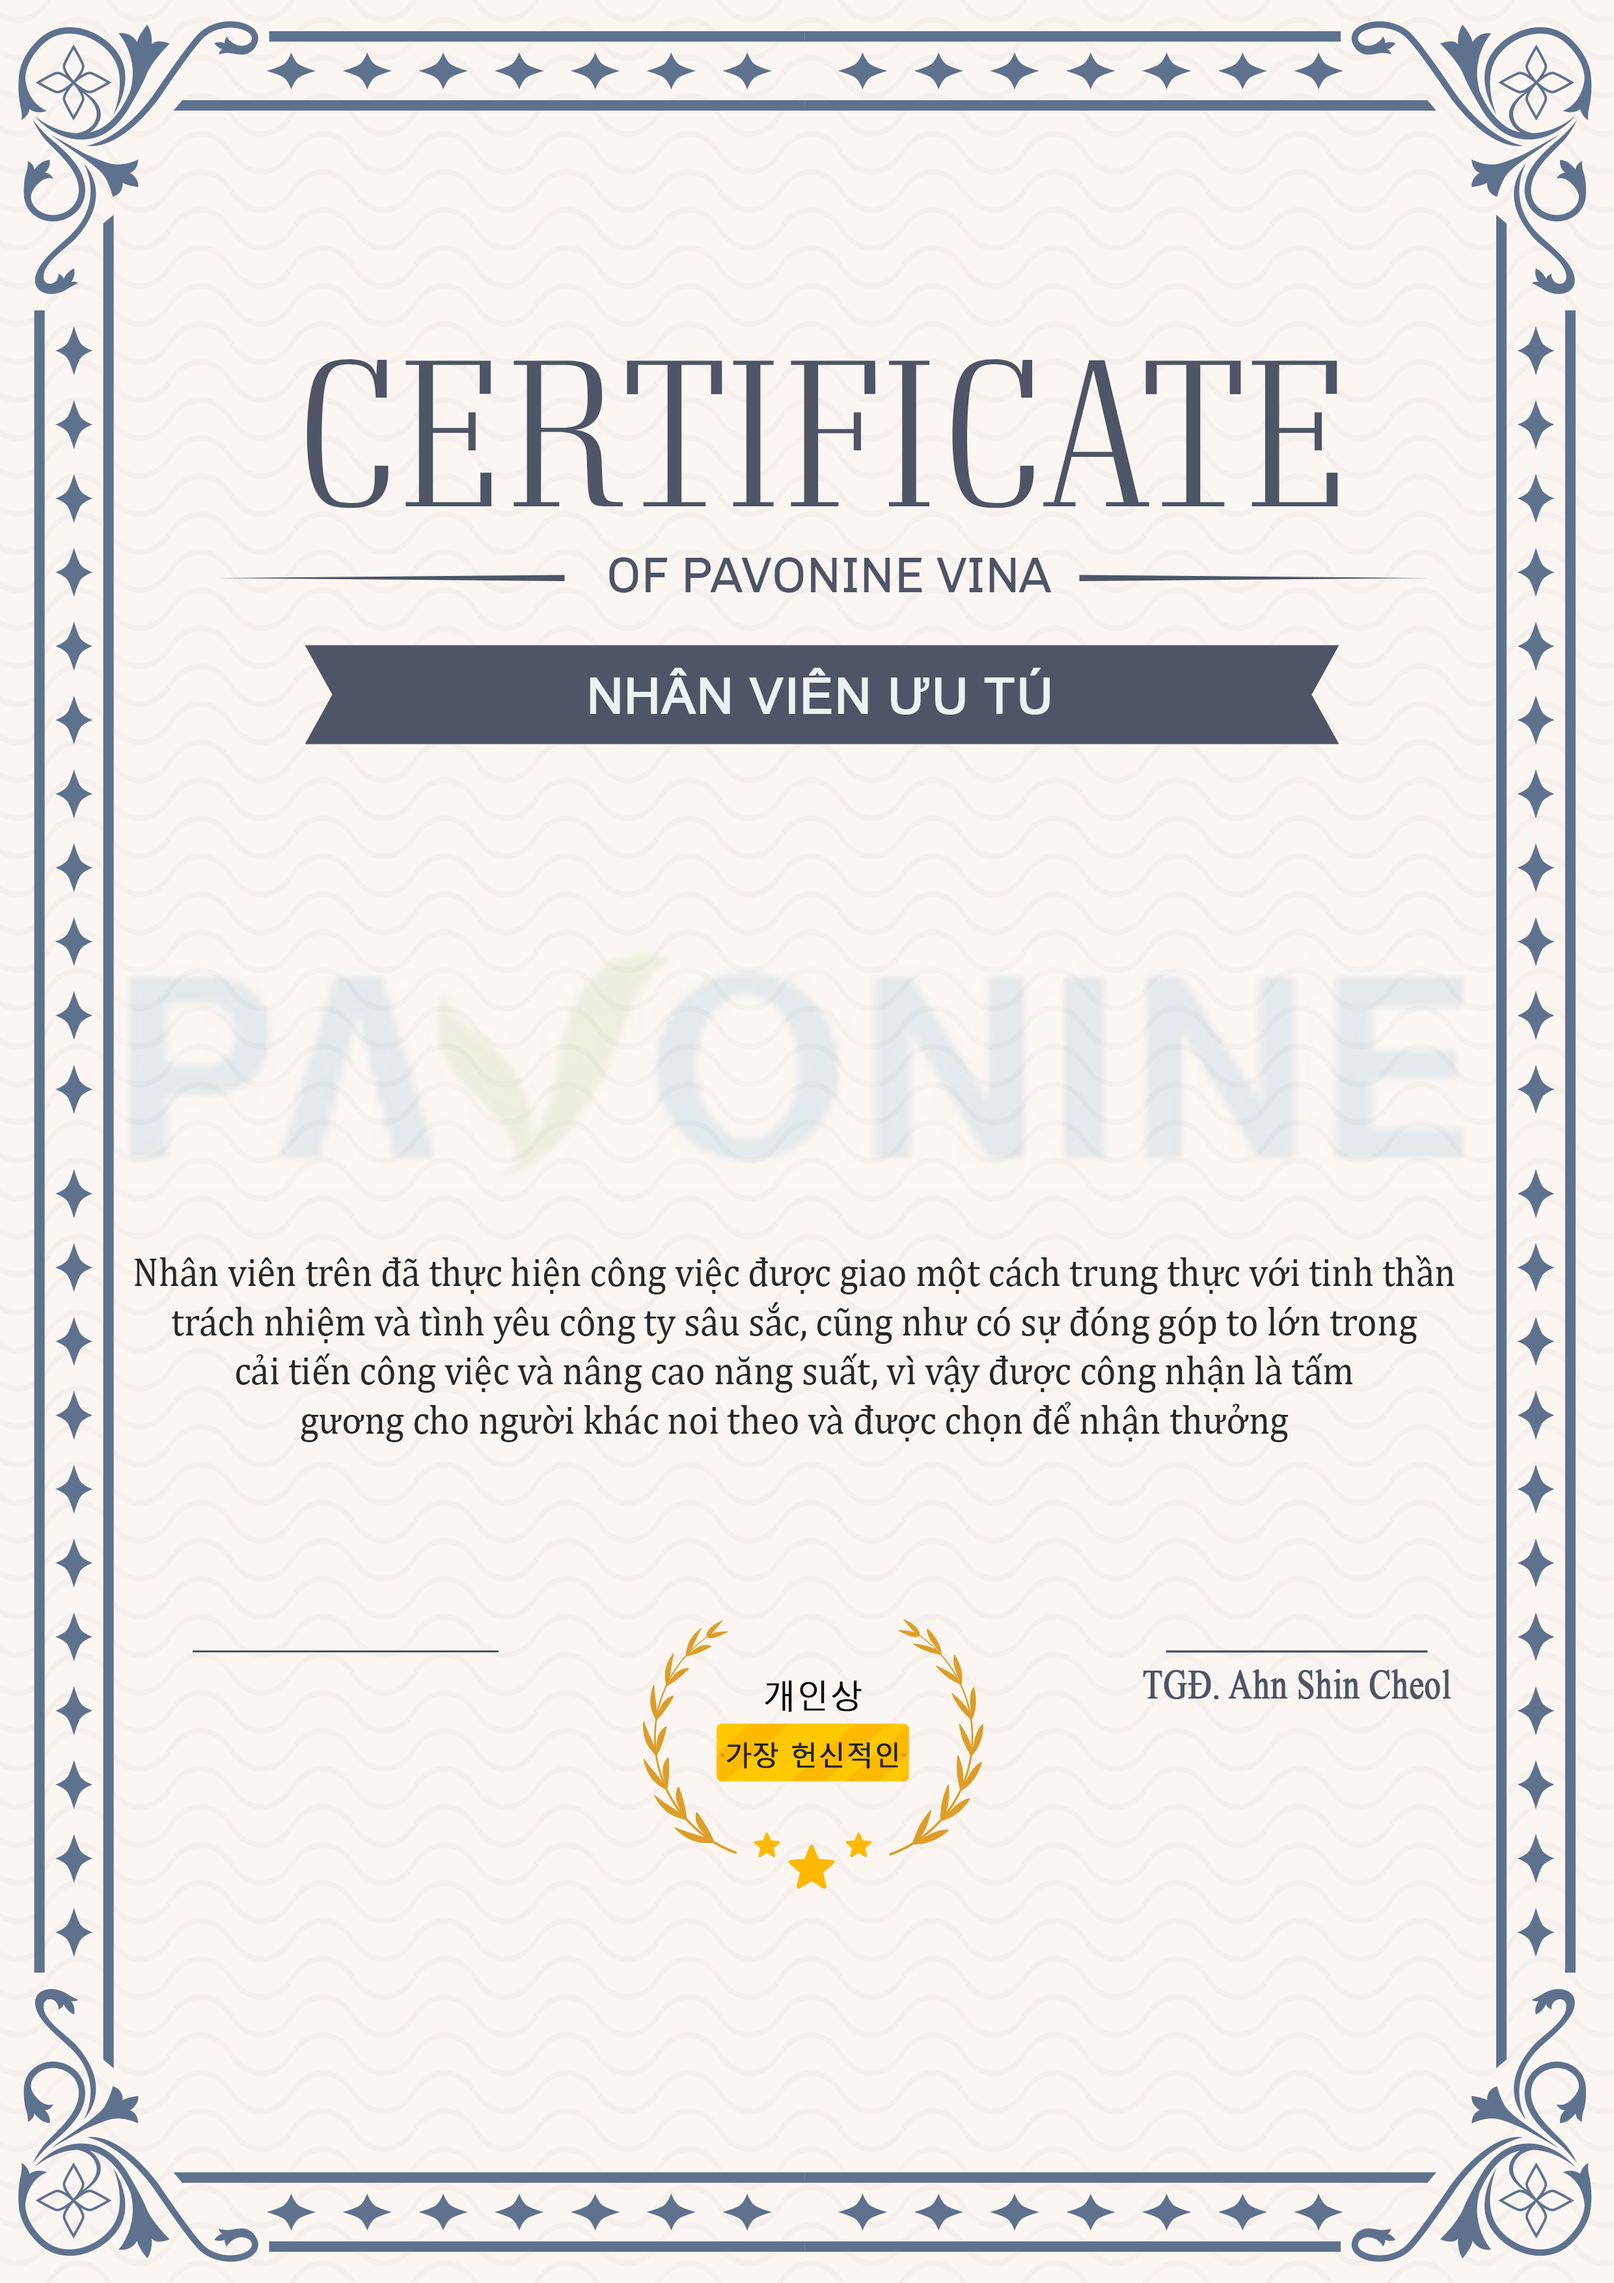
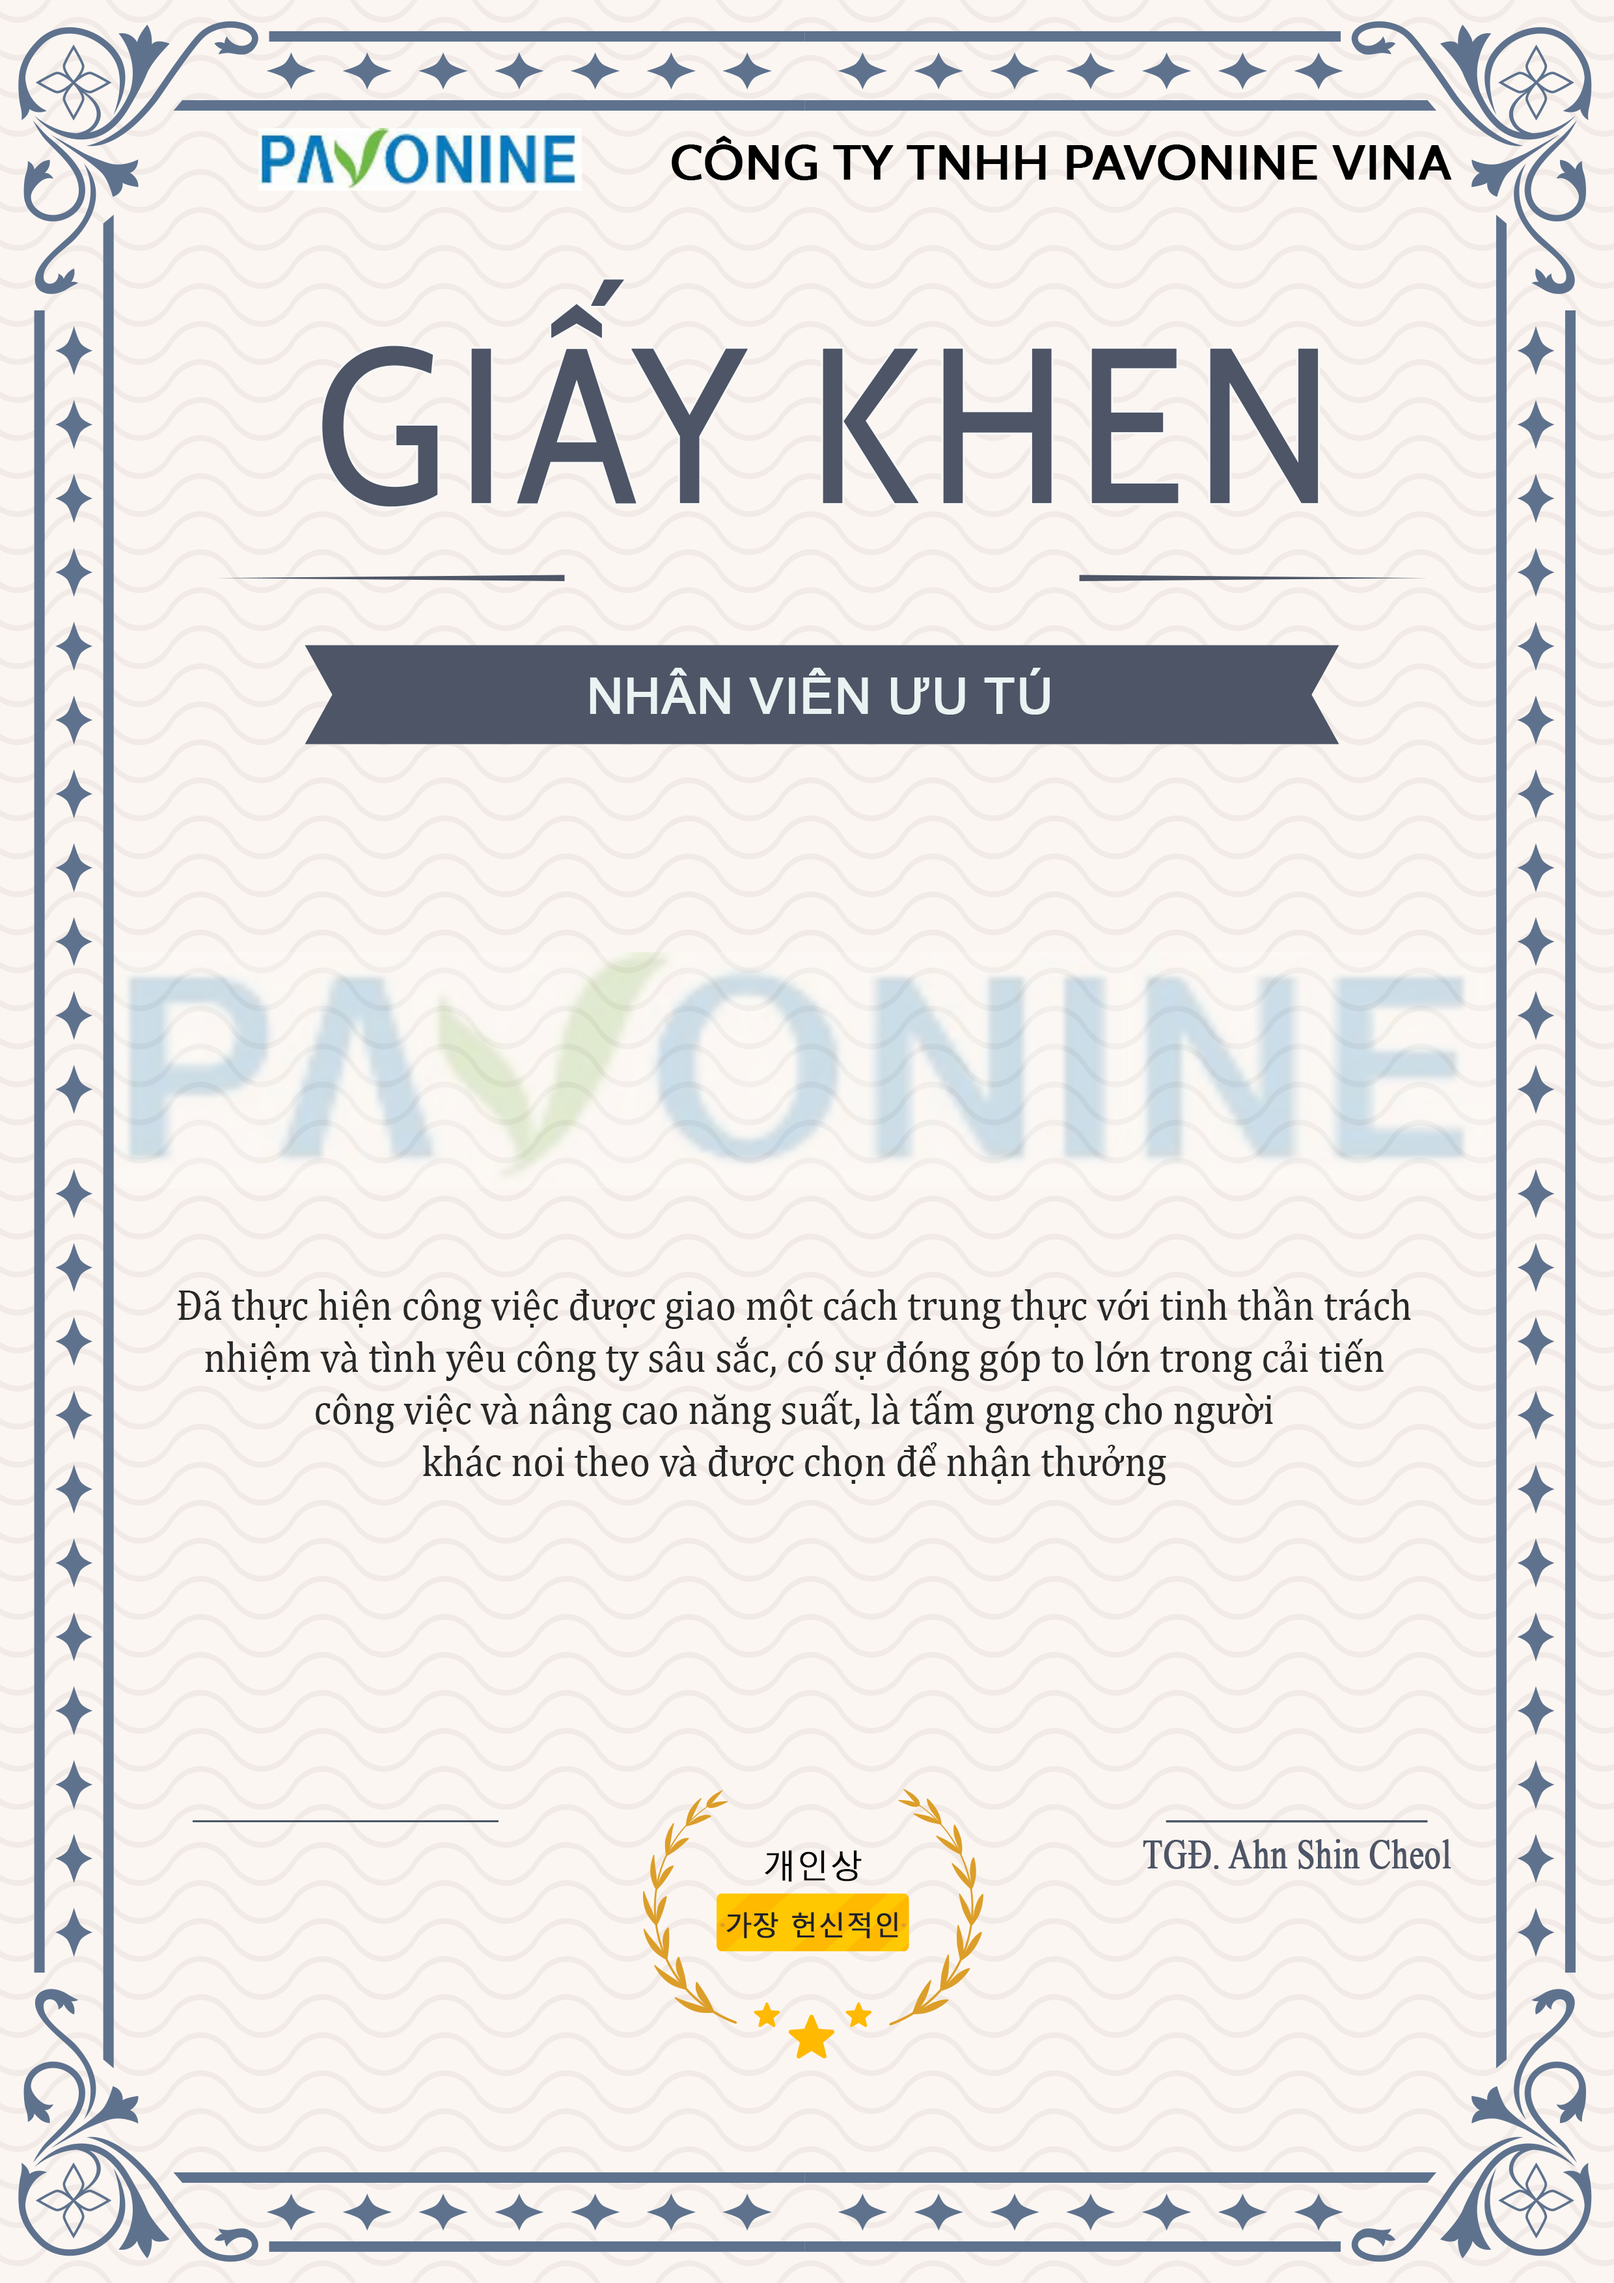
update

diff --git a/src/CertificateGenerator1.jsx b/src/CertificateGenerator1.jsx
@@ -1,6 +1,6 @@
 import { useRef, useState, useEffect } from "react";
 
-export default function CertificateGenerator1() {
+export default function CertificateGenerator2() {
   const canvasRef = useRef(null);
   const [name, setName] = useState("");
   const [department, setDepartment] = useState("");
@@ -32,7 +32,7 @@ export default function CertificateGenerator1() {
     ctx.setTransform(dpr, 0, 0, dpr, 0, 0);
 
     const img = new Image();
-    img.src = "/certificate.png";
+    img.src = "/certificate2.png";
     img.onload = () => {
       backgroundRef.current = img;
       drawCertificate(name, dpr);
@@ -47,6 +47,17 @@ export default function CertificateGenerator1() {
     ctx.clearRect(0, 0, canvas.width, canvas.height);
     ctx.setTransform(dpr, 0, 0, dpr, 0, 0);
     ctx.drawImage(backgroundRef.current, 0, 0, baseWidth, baseHeight);
+
+    // Dòng tháng và năm nằm trên tên người khen thưởng
+    const topNow = new Date();
+    const topMonth = (topNow.getMonth() + 1).toString().padStart(2, '0');
+    const topYear = topNow.getFullYear();
+    const topText = `THÁNG ${topMonth} - ${topYear}`;
+    ctx.font = `bold ${70 * dpr}px 'Arial', 'Cambria', 'serif'`;
+    ctx.fillStyle = "#1e293b";
+    ctx.textAlign = "center";
+    ctx.textBaseline = "middle";
+    ctx.fillText(topText, baseWidth / 2, 890);
 
     // Tên người được khen (dòng chính) - tự động giảm font nếu quá dài, viết hoa chữ cái đầu mỗi từ
     function toTitleCase(str) {
@@ -72,28 +83,28 @@ export default function CertificateGenerator1() {
     // Bộ phận (nếu có) nằm dưới tên
     let offsetDept = 0;
     if (department && department.trim() !== "") {
-      ctx.font = `italic ${55 * dpr}px 'Arial', 'Cambria', 'serif'`;
+      ctx.font = `italic ${65 * dpr}px 'Arial', 'Cambria', 'serif'`;
       ctx.fillStyle = "#222";
-      ctx.fillText(`BỘ PHẬN: ${department.toUpperCase()}`, baseWidth / 2, 1750 + 90);
+      ctx.fillText(`BỘ PHẬN: ${department.toUpperCase()}`, baseWidth / 2, 1780 + 90);
       offsetDept = 90;
     }
 
     // Dòng phụ bên dưới tên (hoặc bộ phận)
     const offsetSub = 470; // nếu có bộ phận thì đẩy xuống thêm
-    ctx.font = `bold ${65 * dpr}px 'Arial', 'Cambria', 'serif'`;
+    ctx.font = `bold ${80 * dpr}px 'Arial', 'Cambria', 'serif'`;
     ctx.fillStyle = "#444";
     // Tự động lấy quý hiện tại và năm hiện tại
-    const nowSub = new Date();
-    const month = nowSub.getMonth(); // 0-11
-    const quarter = Math.floor(month / 3) + 1;
-    const year = nowSub.getFullYear();
-    const subText = `Nhân viên ưu tú nhất quý ${quarter} năm ${year}`.toUpperCase();
-    ctx.fillText(subText, baseWidth / 2, 1800 + offsetSub);
+    const nowSub2 = new Date();
+    const month2 = nowSub2.getMonth(); // 0-11
+    const quarter2 = Math.floor(month2 / 3) + 1;
+    const year2 = nowSub2.getFullYear();
+    const subText = `Nhân viên ưu tú nhất quý ${quarter2} năm ${year2}`.toUpperCase();
+    ctx.fillText(subText, baseWidth / 2, 1900 + offsetSub);
 
     // Ngày tháng năm bên trái dưới
-    const dateFontSize = 42;   // chỉnh font size tại đây
+    const dateFontSize = 46;   // chỉnh font size tại đây
     const paddingLeft = 200;   // khoảng cách từ lề trái
-    const paddingBottom = 910; // tăng khoảng cách từ đáy lên để chữ cao hơn
+    const paddingBottom = 630; // tăng khoảng cách từ đáy lên để chữ cao hơn
 
     ctx.font = `italic ${dateFontSize * dpr}px 'Arial', 'Times New Roman', 'serif'`;
     ctx.textAlign = "left";

diff --git a/src/CertificateGenerator2.jsx b/src/CertificateGenerator2.jsx
@@ -48,6 +48,17 @@ export default function CertificateGenerator2() {
     ctx.setTransform(dpr, 0, 0, dpr, 0, 0);
     ctx.drawImage(backgroundRef.current, 0, 0, baseWidth, baseHeight);
 
+    // Dòng tháng và năm nằm trên tên người khen thưởng
+    const topNow = new Date();
+    const topMonth = (topNow.getMonth() + 1).toString().padStart(2, '0');
+    const topYear = topNow.getFullYear();
+    const topText = `THÁNG ${topMonth} - ${topYear}`;
+    ctx.font = `bold ${70 * dpr}px 'Arial', 'Cambria', 'serif'`;
+    ctx.fillStyle = "#1e293b";
+    ctx.textAlign = "center";
+    ctx.textBaseline = "middle";
+    ctx.fillText(topText, baseWidth / 2, 890);
+
     // Tên người được khen (dòng chính) - tự động giảm font nếu quá dài, viết hoa chữ cái đầu mỗi từ
     function toTitleCase(str) {
       return str
@@ -72,28 +83,28 @@ export default function CertificateGenerator2() {
     // Bộ phận (nếu có) nằm dưới tên
     let offsetDept = 0;
     if (department && department.trim() !== "") {
-      ctx.font = `italic ${55 * dpr}px 'Arial', 'Cambria', 'serif'`;
+      ctx.font = `italic ${65 * dpr}px 'Arial', 'Cambria', 'serif'`;
       ctx.fillStyle = "#222";
-      ctx.fillText(`BỘ PHẬN: ${department.toUpperCase()}`, baseWidth / 2, 1750 + 90);
+      ctx.fillText(`BỘ PHẬN: ${department.toUpperCase()}`, baseWidth / 2, 1780 + 90);
       offsetDept = 90;
     }
 
     // Dòng phụ bên dưới tên (hoặc bộ phận)
     const offsetSub = 470; // nếu có bộ phận thì đẩy xuống thêm
-    ctx.font = `bold ${65 * dpr}px 'Arial', 'Cambria', 'serif'`;
+    ctx.font = `bold ${80 * dpr}px 'Arial', 'Cambria', 'serif'`;
     ctx.fillStyle = "#444";
     // Tự động lấy quý hiện tại và năm hiện tại
-    const nowSub = new Date();
-    const month = nowSub.getMonth(); // 0-11
-    const quarter = Math.floor(month / 3) + 1;
-    const year = nowSub.getFullYear();
-    const subText = `Nhân viên ưu tú quý ${quarter} năm ${year}`.toUpperCase();
-    ctx.fillText(subText, baseWidth / 2, 1800 + offsetSub);
+    const nowSub2 = new Date();
+    const month2 = nowSub2.getMonth(); // 0-11
+    const quarter2 = Math.floor(month2 / 3) + 1;
+    const year2 = nowSub2.getFullYear();
+    const subText = `Nhân viên ưu tú quý ${quarter2} năm ${year2}`.toUpperCase();
+    ctx.fillText(subText, baseWidth / 2, 1900 + offsetSub);
 
     // Ngày tháng năm bên trái dưới
-    const dateFontSize = 42;   // chỉnh font size tại đây
+    const dateFontSize = 46;   // chỉnh font size tại đây
     const paddingLeft = 200;   // khoảng cách từ lề trái
-    const paddingBottom = 910; // tăng khoảng cách từ đáy lên để chữ cao hơn
+    const paddingBottom = 630; // tăng khoảng cách từ đáy lên để chữ cao hơn
 
     ctx.font = `italic ${dateFontSize * dpr}px 'Arial', 'Times New Roman', 'serif'`;
     ctx.textAlign = "left";
